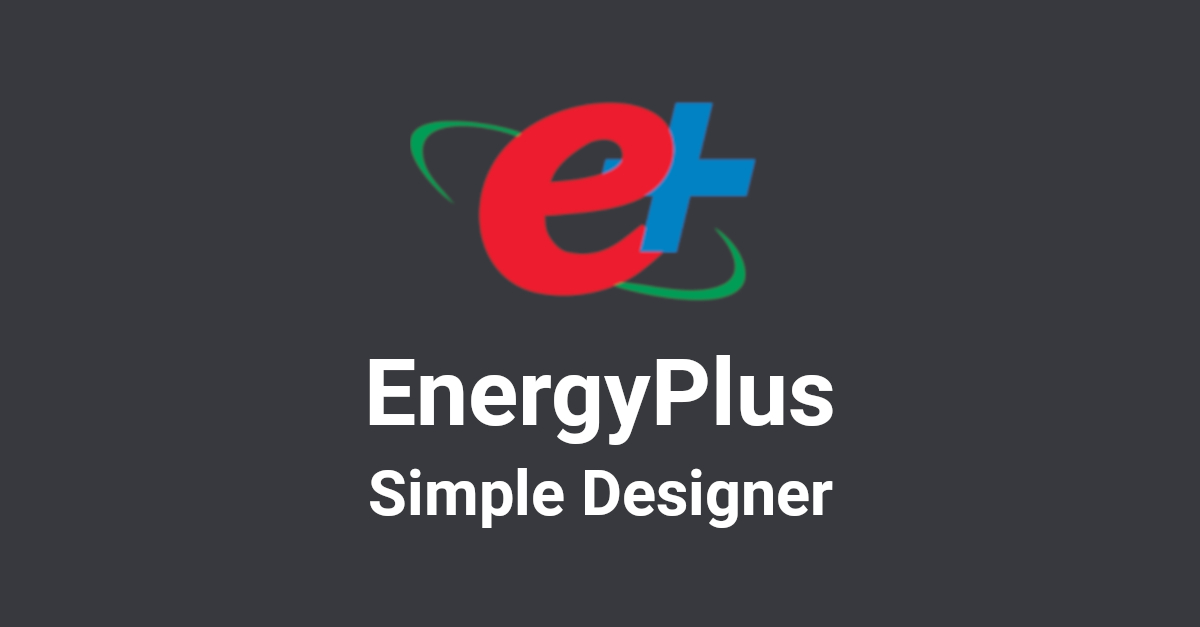
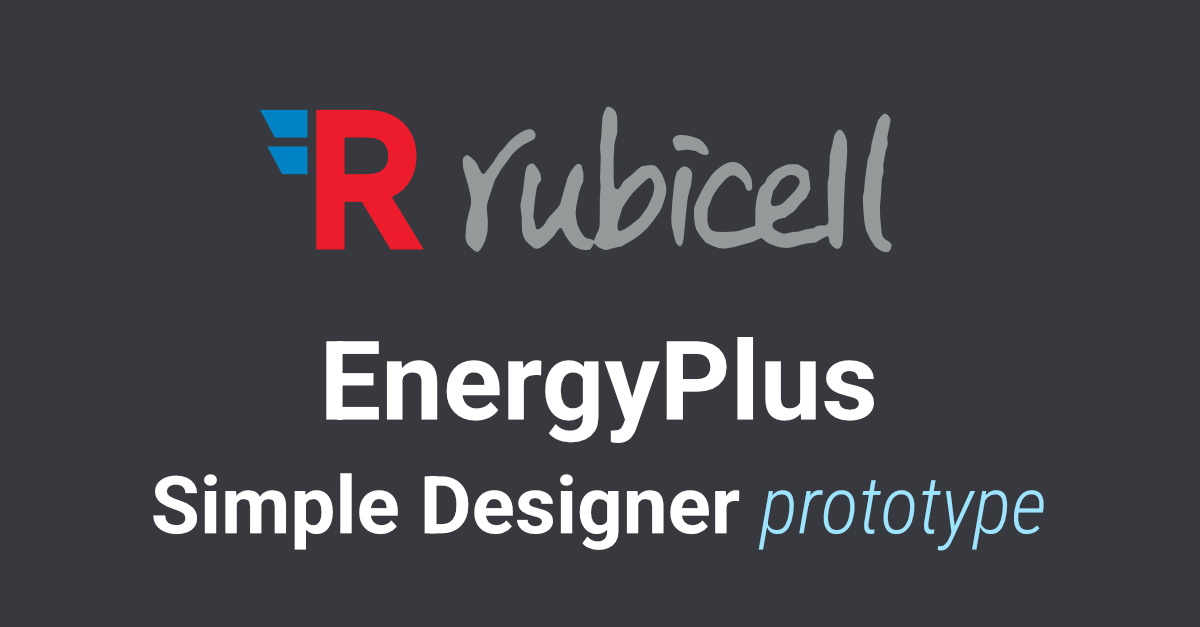
epdesign - updated aesthetics

Changed region(s): [[0.2158, 0.1515, 0.74, 0.4848], [0.1233, 0.7273, 0.8942, 0.8788], [0.2467, 0.5455, 0.74, 0.7273]]

diff --git a/epdesign/index.html b/epdesign/index.html
@@ -5,21 +5,21 @@
     <meta charset="utf-8" />
     <meta name="viewport" content="width=device-width, initial-scale=1">
 
-    <meta name='title' property='og:title' content='EP Simple Designer'/>
-    <meta name='author' content='Chul-Hong Park'>
-    <meta name='description' property='og:description' content='EnergyPlus Simple Designer developed by Chul-Hong Park'/>
-    <meta property='og:url' content='https://chp-rubicell.github.io/epdesign'/>
-    <meta name='image' property='og:image' content='https://chp-rubicell.github.io/epdesign/resources/img/thumbnail.jpg'/>
-    <meta name='twitter:image' content='https://chp-rubicell.github.io/epdesign/resources/img/thumbnail.jpg' />
-    <meta property='og:image:width' content='1200' />
-    <meta property='og:image:height' content='627' />
-    <meta property='og:type' content='website' />
+    <meta name="title" property="og:title" content="Rubicell EP Simple Designer"/>
+    <meta name="author" content="Chul-Hong Park">
+    <meta name="description" property="og:description" content="EnergyPlus Simple Designer developed by Chul-Hong Park"/>
+    <meta property="og:url" content="https://chp-rubicell.github.io/epdesign"/>
+    <meta name="image" property="og:image" content="https://chp-rubicell.github.io/epdesign/resources/imgs/thumbnail.jpg"/>
+    <meta name="twitter:image" content="https://chp-rubicell.github.io/epdesign/resources/imgs/thumbnail.jpg" />
+    <meta property="og:image:width" content="1200" />
+    <meta property="og:image:height" content="627" />
+    <meta property="og:type" content="website" />
 
-    <link rel="icon" href="resources/img/favicon.png">
+    <link rel="icon" href="resources/imgs/favicon.png?v=25_0617">
 
-    <title>EP Simple Designer</title>
+    <title>Rubicell EP Simple Designer</title>
 
-    <link rel="stylesheet" type="text/css" href="resources/styles.css?v=24_0830" />
+    <link rel="stylesheet" type="text/css" href="resources/styles.css?v=25_0617" />
 
     <link rel="preconnect" href="https://fonts.googleapis.com">
     <link rel="preconnect" href="https://fonts.gstatic.com" crossorigin>
@@ -43,10 +43,17 @@
 
     <!--* Header *-->
     <div class="panel" id="header">
-        <h1>
-            <img height="40px" src="resources/img/eplogo.png" style="vertical-align: middle;"/>
-            EnergyPlus Simple Designer <span style="font-weight: normal; font-style: italic; color: rgba(158,227,255,0.8);">prototype</span>
-        </h1>
+        <h2>
+            <!-- <img height="32px" src="resources/imgs/eplogo.png" style="vertical-align: middle;" draggable="false" /> -->
+            <span id="logo">
+                <object data="resources/imgs/logo.svg" height="30px" style="vertical-align: top;" draggable="false"></object>
+            </span>
+            <span id="logoSigniture">
+                <svg height="28px" viewBox="0 0 263 90" version="1.1" xmlns="http://www.w3.org/2000/svg" xmlns:xlink="http://www.w3.org/1999/xlink" xml:space="preserve" xmlns:serif="http://www.serif.com/" fill="currentColor"><path id="Rubicell-3" serif:id="Rubicell 3" d="M166.27,85.809c-4.744,1.034 -7.329,1.277 -9.214,0.821c-2.098,-0.517 -7.48,-2.767 -8.332,-3.497c-1.459,-1.217 -5.23,-6.386 -5.868,-8.089c-1.277,-3.345 -1.886,-12.041 -0.973,-14.17c0.273,-0.608 0.729,-1.855 1.064,-2.736c0.304,-0.882 0.851,-2.038 1.247,-2.585c0.395,-0.547 1.277,-2.341 2.006,-4.014c0.73,-1.703 1.764,-3.527 2.311,-4.105c0.548,-0.578 1.521,-2.037 2.129,-3.254c1.672,-3.192 6.386,-7.51 10.217,-9.335c5.565,-2.645 10.643,-0.334 14.565,6.66c1.156,2.037 1.399,2.767 1.642,5.017c0.396,3.284 0.183,4.166 -1.064,4.683c-1.764,0.76 -2.493,0.06 -3.314,-3.132c-0.244,-1.065 -0.761,-1.794 -2.19,-3.163c-2.858,-2.767 -4.804,-3.466 -7.054,-2.524c-1.369,0.578 -5.535,4.744 -6.903,6.903c-0.608,0.943 -1.703,2.524 -2.432,3.558c-0.943,1.277 -1.521,2.463 -1.886,3.861c-0.273,1.095 -0.912,2.737 -1.399,3.589c-0.821,1.49 -0.912,1.854 -1.064,5.807c-0.121,3.649 -0.061,4.501 0.456,6.295c1.065,3.527 2.494,4.196 9.275,4.287c5.017,0.092 10.369,-0.638 12.376,-1.672c0.79,-0.426 2.432,-0.943 3.649,-1.125c1.216,-0.213 2.554,-0.578 2.949,-0.821c0.699,-0.456 0.699,-0.517 0.517,-4.014c-0.122,-2.037 -0.061,-4.744 0.122,-6.416c0.182,-1.581 0.456,-4.044 0.577,-5.473c0.152,-1.43 0.548,-3.345 0.943,-4.258c0.365,-0.912 0.791,-2.098 0.943,-2.645c0.182,-0.578 0.973,-1.551 2.067,-2.493c1.43,-1.247 1.855,-1.825 2.129,-2.95c0.274,-1.034 0.73,-1.703 1.764,-2.645c0.76,-0.7 1.976,-1.855 2.676,-2.555c0.942,-0.973 2.219,-1.703 4.895,-2.888c3.588,-1.551 3.649,-1.551 6.872,-1.582c2.889,-0.03 3.315,0.031 4.105,0.639c0.456,0.365 1.855,1.216 3.041,1.916c1.49,0.821 2.25,1.459 2.342,1.915c0.516,2.281 1.429,9.913 1.277,10.582c-0.092,0.456 -0.7,1.977 -1.399,3.436c-1.004,2.098 -1.49,2.767 -2.585,3.528c-1.277,0.881 -2.037,1.733 -4.895,5.564c-0.7,0.912 -1.703,1.764 -2.646,2.25c-0.851,0.426 -2.068,1.308 -2.706,1.946c-1.034,1.065 -1.338,1.186 -2.646,1.186c-1.581,0 -4.348,1.217 -5.716,2.494c-0.73,0.699 -0.943,2.28 -0.426,3.253c0.608,1.095 3.527,3.041 5.382,3.528c1.794,0.517 1.855,0.517 4.713,-0.244c1.916,-0.547 3.254,-0.729 4.105,-0.608c0.852,0.092 1.551,0 2.22,-0.334c1.186,-0.639 5.838,-1.673 7.359,-1.703c0.76,-0 1.459,-0.274 2.25,-0.912c1.095,-0.852 1.277,-0.912 3.983,-0.912c2.707,-0 2.828,-0.031 3.467,-0.821c0.638,-0.821 0.669,-1.034 0.486,-4.957c-0.121,-2.25 -0.273,-7.906 -0.364,-12.558c-0.152,-7.906 -0.122,-8.606 0.456,-10.491c0.547,-1.733 0.608,-2.798 0.577,-7.207c-0.03,-2.949 0.122,-6.02 0.335,-7.145c0.608,-3.315 1.277,-6.173 1.733,-7.39c0.243,-0.608 0.426,-1.581 0.426,-2.128c-0,-1.46 0.912,-3.74 2.007,-4.926c1.763,-1.946 3.314,-1.216 4.987,2.311c1.246,2.645 1.611,5.352 1.429,10.43c-0.213,5.625 -0.76,12.193 -1.125,13.562c-0.152,0.577 -0.304,2.919 -0.304,5.169c-0,2.25 -0.152,4.591 -0.304,5.169c-0.152,0.608 -0.365,6.477 -0.426,13.076c-0.183,14.23 -0.456,18.579 -1.216,20.069c-0.913,1.763 -1.399,2.128 -2.707,2.128c-1.094,0 -1.429,-0.213 -3.01,-1.763c-1.338,-1.369 -1.764,-2.007 -1.764,-2.676c0,-1.156 -0.547,-3.102 -0.942,-3.345c-0.152,-0.091 -0.609,0.03 -0.973,0.273c-0.365,0.244 -1.217,0.609 -1.886,0.821c-0.669,0.213 -1.733,0.852 -2.372,1.43c-1.52,1.338 -2.28,1.611 -4.713,1.611c-1.125,0 -2.797,0.213 -3.709,0.456c-0.913,0.274 -2.555,0.669 -3.649,0.882c-1.095,0.213 -2.768,0.7 -3.71,1.064c-2.767,1.034 -6.781,0.913 -10.521,-0.304c-4.47,-1.429 -5.778,-2.098 -7.298,-3.679c-0.76,-0.821 -1.642,-1.46 -1.916,-1.46c-0.273,0 -1.642,0.609 -3.041,1.338c-1.702,0.913 -3.253,1.49 -4.682,1.734c-1.156,0.182 -2.646,0.608 -3.254,0.912c-0.608,0.304 -3.071,1.003 -5.473,1.551Zm22.775,-25.543c0.639,0.73 2.554,0.73 4.713,-0.03c1.429,-0.487 2.22,-1.125 6.051,-4.987c6.143,-6.173 7.541,-9.092 5.535,-11.494c-1.703,-2.007 -4.562,-2.615 -7.055,-1.46c-2.068,0.912 -4.5,3.132 -4.926,4.47c-0.183,0.608 -1.004,1.825 -1.794,2.676c-0.791,0.821 -1.521,1.794 -1.612,2.129c-1.52,5.047 -1.824,7.693 -0.912,8.696Zm-55.464,24.813c-0.699,0.517 -0.821,0.486 -1.855,-0.395c-1.216,-1.034 -1.733,-2.251 -2.341,-5.474c-0.274,-1.49 -0.791,-3.679 -1.155,-4.865c-0.852,-2.798 -0.852,-8.453 0.03,-16.268c0.334,-3.102 0.73,-6.933 0.851,-8.514c0.213,-3.376 1.125,-8.15 1.764,-9.396c0.274,-0.487 1.155,-1.49 2.037,-2.281c1.277,-1.155 1.764,-1.399 2.737,-1.399c1.642,0 3.436,1.217 4.257,2.95c0.608,1.247 0.639,1.52 0.304,4.135c-0.182,1.551 -0.395,3.558 -0.486,4.501c-0.092,0.912 -0.517,2.371 -0.913,3.223c-0.395,0.851 -0.79,2.372 -0.912,3.345c-0.121,0.973 -0.395,2.919 -0.608,4.348c-0.213,1.429 -0.578,4.713 -0.76,7.298c-1.064,14.474 -1.581,17.758 -2.95,18.792Zm16.572,-55.95c-0.79,0.79 -4.5,0.152 -5.716,-0.973c-0.912,-0.852 -2.129,-1.247 -5.23,-1.703c-1.946,-0.274 -2.798,-0.274 -5.018,0.152c-2.523,0.486 -2.645,0.486 -3.405,-0.091c-0.426,-0.305 -0.943,-1.034 -1.125,-1.612c-1.49,-4.5 -1.429,-4.105 -0.821,-5.352c0.76,-1.611 2.25,-2.28 5.047,-2.311c1.217,0 2.95,0.183 3.862,0.395c2.95,0.7 6.507,1.855 7.268,2.342c3.649,2.372 6.628,7.663 5.138,9.153Zm110.502,59.629c-1.763,0.943 -5.808,-0.608 -8.331,-3.223c-1.49,-1.581 -4.774,-7.45 -5.565,-10.004c-0.821,-2.646 -1.368,-7.085 -1.733,-13.957c-0.335,-6.234 -0.304,-6.812 0.182,-8.362c0.365,-1.095 0.547,-2.463 0.517,-4.045c0,-1.307 0.183,-3.375 0.426,-4.561c0.243,-1.216 0.456,-2.737 0.456,-3.405c-0,-0.669 0.274,-2.798 0.608,-4.714c0.335,-1.915 0.608,-3.861 0.608,-4.287c0,-0.426 0.426,-1.551 0.912,-2.494c0.7,-1.307 0.913,-2.128 0.913,-3.344c-0,-0.882 0.182,-2.311 0.425,-3.132c0.244,-0.821 0.517,-2.099 0.639,-2.859c0.091,-0.76 0.669,-2.828 1.247,-4.622c0.577,-1.794 1.186,-4.044 1.368,-5.017c0.426,-2.189 0.791,-2.889 2.676,-4.865c0.973,-1.065 1.733,-1.612 2.22,-1.612c1.155,0 2.493,1.034 3.132,2.402c0.638,1.429 0.638,1.338 -0.943,8.758c-0.76,3.497 -0.821,4.196 -0.517,5.321c0.304,1.064 0.274,1.703 -0.122,3.436c-0.243,1.186 -0.669,2.554 -0.942,3.041c-0.243,0.517 -0.487,1.764 -0.548,2.797c-0.06,1.034 -0.304,2.555 -0.577,3.345c-0.396,1.156 -0.487,2.068 -0.304,4.227c0.152,2.372 0.091,3.041 -0.426,4.561c-0.426,1.186 -0.639,2.524 -0.639,4.105c0,1.247 -0.182,4.409 -0.425,6.994c-0.73,7.876 -0.821,10.643 -0.487,13.805c0.183,1.673 0.456,4.744 0.578,6.842c0.304,5.169 1.125,6.842 3.831,8.058c1.703,0.73 2.585,1.885 2.585,3.254c-0.03,1.064 -1.095,3.192 -1.764,3.557Zm-250.043,-1.094c-1.49,1.824 -2.371,1.611 -5.382,-1.156c-2.919,-2.706 -3.497,-4.044 -3.527,-7.906c-0.031,-4.075 0.942,-10.491 2.128,-13.957c1.369,-3.892 1.612,-6.903 0.913,-10.521c-0.761,-3.801 -2.251,-9.548 -3.132,-11.981c-1.186,-3.314 -1.582,-5.26 -1.612,-8.058c-0,-2.463 0.03,-2.554 1.034,-3.558c0.578,-0.577 1.307,-1.033 1.642,-1.033c0.73,-0 3.101,1.824 4.683,3.588c1.186,1.307 2.219,3.132 3.132,5.625c0.669,1.764 1.733,2.706 2.676,2.372c0.334,-0.122 1.064,-1.004 1.581,-1.916c0.486,-0.912 1.551,-2.311 2.341,-3.071c0.882,-0.851 1.885,-2.311 2.585,-3.71c1.003,-2.098 4.044,-6.02 5.139,-6.629c0.243,-0.121 0.973,-1.034 1.642,-2.007c0.638,-1.003 2.432,-2.919 3.953,-4.317c3.253,-2.98 8.301,-5.748 10.521,-5.748c2.737,0 4.591,3.011 3.314,5.443c-0.334,0.669 -1.125,1.186 -3.375,2.159c-5.078,2.22 -10.187,6.599 -12.923,11.099c-0.913,1.46 -2.433,3.558 -3.376,4.592c-1.094,1.216 -1.854,2.372 -2.067,3.162c-0.183,0.7 -0.821,1.764 -1.399,2.402c-1.064,1.217 -1.612,2.524 -3.162,7.633c-0.487,1.581 -1.217,3.77 -1.642,4.865c-1.338,3.497 -1.825,6.416 -1.46,8.423c0.547,2.797 0.76,9.73 0.395,12.254c-0.669,4.774 -2.402,9.275 -4.622,11.951Zm67.506,-0.396c-0.274,0.152 -1.369,0.365 -2.433,0.456c-2.098,0.183 -4.561,-0.486 -7.237,-1.976c-1.825,-1.064 -5.96,-6.72 -6.842,-9.366c-0.699,-2.189 -1.186,-2.554 -2.463,-1.885c-0.365,0.213 -1.003,0.943 -1.368,1.642c-1.095,1.916 -2.524,3.71 -3.984,4.926c-0.729,0.608 -1.642,1.52 -2.007,2.068c-0.395,0.517 -1.307,1.277 -2.007,1.703c-0.699,0.425 -1.763,1.094 -2.341,1.459c-1.155,0.73 -2.706,0.852 -3.74,0.304c-0.365,-0.182 -1.794,-1.368 -3.162,-2.615c-2.311,-2.128 -2.524,-2.432 -3.406,-4.835c-0.912,-2.523 -0.943,-2.736 -0.943,-7.875c0,-3.68 -0.121,-5.778 -0.456,-7.024c-0.669,-2.615 -0.578,-5.352 0.304,-8.332c0.487,-1.581 0.912,-3.923 1.095,-6.203c0.638,-8.15 1.368,-12.072 2.554,-13.745c0.547,-0.79 2.342,-1.429 3.375,-1.186c0.426,0.122 1.065,0.73 1.521,1.49c0.456,0.7 1.125,1.612 1.52,2.038c0.943,1.003 1.946,3.983 1.946,5.716c0,1.156 -0.152,1.49 -1.094,2.403c-0.973,0.912 -1.217,1.429 -1.825,4.074c-0.395,1.673 -0.851,4.896 -1.034,7.207c-0.152,2.28 -0.456,5.443 -0.669,6.994c-0.365,2.706 -0.334,2.919 0.335,4.895c0.395,1.125 0.76,2.707 0.79,3.467c0.122,1.733 0.304,2.037 1.156,2.037c1.672,-0.03 4.531,-2.797 5.595,-5.412c0.243,-0.609 1.095,-1.734 1.855,-2.524c2.706,-2.615 5.99,-6.386 6.416,-7.359c0.517,-1.155 1.459,-4.622 2.889,-10.43c1.277,-5.139 1.794,-6.598 3.496,-9.487c1.794,-3.102 3.589,-4.926 4.835,-4.926c1.247,-0 2.19,0.943 2.19,2.22c0.03,0.517 0.212,1.307 0.456,1.733c0.304,0.517 0.425,1.733 0.456,3.831c-0,2.889 -0.061,3.224 -0.943,4.866c-1.429,2.706 -2.341,6.324 -3.497,13.744c-0.456,2.98 -0.486,3.862 -0.182,6.325c0.456,3.557 1.247,6.02 2.889,8.757c1.824,3.041 2.858,4.014 4.682,4.257c1.703,0.243 3.132,0.76 3.132,1.125c0,0.152 0.122,0.274 0.244,0.274c0.152,-0 0.425,-0.73 0.638,-1.581c0.243,-0.882 0.669,-1.977 1.004,-2.433c0.304,-0.456 0.882,-1.672 1.277,-2.737c0.699,-1.794 0.73,-2.371 0.73,-7.845c-0,-12.102 0.06,-14.2 0.364,-16.268c0.244,-1.49 0.213,-2.797 0,-4.409c-0.243,-1.642 -0.243,-4.318 0.031,-9.7c0.274,-5.869 0.274,-7.906 -0.031,-9.639c-0.212,-1.247 -0.304,-2.737 -0.182,-3.376c0.608,-3.618 0.821,-5.96 1.095,-11.676c0.273,-6.021 0.334,-6.447 1.246,-8.849c0.517,-1.399 1.156,-2.767 1.43,-3.041c0.729,-0.881 2.28,-0.669 3.77,0.456c2.737,2.099 3.011,3.132 3.041,10.765c0.03,3.892 -0.061,5.047 -0.487,6.021c-1.216,2.858 -1.733,6.963 -1.854,14.899c-0.031,4.197 -0,9.609 0.121,12.072c0.213,4.926 0.517,5.717 2.19,5.717c0.699,-0 1.064,-0.304 1.915,-1.581c0.578,-0.882 1.186,-1.977 1.369,-2.433c0.182,-0.456 0.912,-1.247 1.611,-1.733c2.037,-1.399 4.653,-3.649 6.872,-5.869c1.125,-1.125 2.403,-2.189 2.859,-2.341c0.425,-0.183 2.219,-0.456 3.953,-0.669c3.983,-0.426 4.774,-0.152 6.659,2.341c2.098,2.798 2.402,3.345 3.527,6.599c1.521,4.378 1.612,6.172 0.456,10.855c-1.094,4.44 -2.523,7.724 -4.561,10.4c-0.821,1.064 -2.068,2.797 -2.797,3.892c-1.946,2.919 -5.839,6.963 -8.18,8.514c-1.125,0.76 -2.524,1.764 -3.071,2.22c-0.578,0.486 -1.733,1.186 -2.585,1.581c-0.851,0.365 -2.22,1.155 -3.071,1.764c-1.916,1.398 -2.706,1.672 -5.565,2.067c-1.277,0.183 -3.162,0.669 -4.196,1.065c-1.855,0.76 -1.916,0.76 -3.618,0.243c-2.129,-0.608 -4.318,-1.946 -5.17,-3.163l-0.638,-0.881l-0.882,1.824c-0.456,1.004 -1.095,1.977 -1.368,2.098Zm17.119,-11.616c0.517,0.609 1.764,0.426 3.558,-0.577c2.037,-1.156 5.047,-3.315 7.054,-5.048c0.791,-0.699 1.642,-1.368 1.886,-1.52c0.243,-0.122 0.881,-0.913 1.459,-1.764c0.548,-0.821 1.612,-2.25 2.342,-3.132c0.76,-0.912 1.52,-2.068 1.702,-2.585c0.213,-0.547 1.004,-2.28 1.795,-3.861c1.003,-2.007 1.581,-3.649 1.885,-5.322c0.608,-3.375 0.547,-3.983 -0.548,-6.233c-1.337,-2.707 -1.946,-2.767 -4.53,-0.487c-1.065,0.912 -2.311,2.098 -2.828,2.585c-0.487,0.517 -1.46,1.49 -2.129,2.189c-0.669,0.669 -1.824,1.825 -2.584,2.554c-0.761,0.73 -1.855,2.099 -2.433,3.072c-0.578,1.003 -1.703,2.645 -2.524,3.709c-1.703,2.311 -2.28,3.558 -2.676,5.96c-0.152,0.973 -0.547,2.281 -0.851,2.889c-1.216,2.341 -1.49,6.386 -0.578,7.571Z"/></svg>
+            </span>
+            <span class="sm-title">EP Simple Designer <span class="prototypeTag">prototype</span></span>
+            <span class="lg-title">EnergyPlus Simple Designer <span class="prototypeTag">prototype</span></span>
+        </h2>
     </div>
     <div class="panel" style="width: min(100%, 500px);">
         <br>
@@ -94,16 +101,18 @@
                     </div>
                     <div id="toolgroupWallProp" class="toolbar toolgroup">
                         <div class="borderleft" style="height: 30px"></div>
-                        <span></span>
-                        <span>
-                            <strong>Name: </strong>
-                        </span>
-                        <input data-property="wallName" type="text" value="wall name" style="width:120px;" disabled />
-                        <span>
+                        <span id="tempHidden" style="display: none;">
                             <span></span>
-                            <strong>Construction: </strong>
+                            <span>
+                                <strong>Name: </strong>
+                            </span>
+                            <input data-property="wallName" type="text" value="wall name" style="width:120px;" disabled />
+                            <span>
+                                <span></span>
+                                <strong>Construction: </strong>
+                            </span>
+                            <input data-property="construction" type="text" value="Default Exterior Wall" style="width:200px;" disabled />
                         </span>
-                        <input data-property="construction" type="text" value="Default Exterior Wall" style="width:200px;" disabled />
                         <span>
                             <span></span>
                             <strong>WWR: </strong>
@@ -122,12 +131,12 @@
     </div>
     
     <!--* Footer *-->
-    <div class="panel" id="footer" style="padding-top: 15px;">
+    <div class="panel" style="padding-top: 15px;">
         <div class="separator"></div>
         <h4><small>DEVELOPED BY</small><b>&nbsp;&nbsp;Chul-Hong Park</b></h4>
         <p><small>
             <a href="https://chp-rubicell.github.io/" target="_blank" rel="noopener noreferrer">chp-rubicell.github.io</a><b>&nbsp;&nbsp;|&nbsp;&nbsp;</b><a href="mailto:chulhong.park@snu.ac.kr">chulhong.park@snu.ac.kr</a><br>
-            UPDATED ON<b>&nbsp;&nbsp;<a style="text-decoration: none;" href="resources/updatelog.html">2024-08-30</a></b>
+            UPDATED ON<b>&nbsp;&nbsp;<span style="display: inherit; vertical-align: inherit; color: #f0f5f790;">2024-08-30</span></b>
         </small></p>
     </div>
 

diff --git a/epdesign/resources/styles.css b/epdesign/resources/styles.css
@@ -7,7 +7,7 @@
     --separatorColor: rgba(0,0,0,0.5);
 }
 :root[colorTheme='dark'] {
-    --bg: #292A2F url('./img/bg.jpg');
+    --bg: #292A2F url('./imgs/bg.jpg');
     --textColor: #fff;
     --separatorColor: rgba(240,245,247,0.5);
     /* button 1 */
@@ -28,6 +28,21 @@
     --btn2ActiveColor: rgba(255,255,255);
     --btn2ActiveBG: rgba(158,227,255,0.8);
     --btn2ActiveShadow: rgba(158,227,255,0.3);
+}
+
+.lg-title {
+    display: inline-block;
+}
+.sm-title {
+    display: none;
+}
+@media screen and (max-width: 700px) {
+    .lg-title {
+        display: none;
+    }
+    .sm-title {
+        display: inline-block;
+    }
 }
 
 * {
@@ -61,7 +76,7 @@ html {
 body {
     width: 100%;
     height: 100%;
-    padding: 30px calc((100% - 800px) * 0.1 + 30px);
+    padding: 0px calc((100% - 800px) * 0.1 + 30px);
     display: flex;
     flex-direction: column;
     align-items: safe center; /* horizontal */
@@ -78,7 +93,35 @@ h1 {
     margin-block-end: 0.0em;
 }
 h2 {
-    margin-block-start: 0.6em;
+    font-size: 1.8em;
+    margin-block-end: 0.0em;
+    white-space: nowrap;
+}
+h2 > span {
+    display: inline-block;
+    vertical-align: middle;
+}
+#logo {
+    /* display: none; */
+    height: 35px;
+    /* color: #f0f5f770; */
+    color: rgba(158,227,255,0.8);
+    /* margin-right: 5px; */
+}
+#logoSigniture {
+    height: 35px;
+    color: #f0f5f7a0;
+    /* color: rgba(158,227,255,0.8); */
+    /* margin: 0 8px; */
+    /* margin-right: 10px; */
+    margin-left: 3px;
+    margin-right: 8px;
+}
+.prototypeTag {
+    font-family: 'Roboto Condensed', sans-serif;
+    font-weight: normal;
+    font-style: italic;
+    color: rgba(158,227,255,0.8);
 }
 h3 {
     margin-block-start: 0.6em;
@@ -567,7 +610,7 @@ input[type=number] {
     border: 0px;
     padding: 0 30px 0 10px;
     font-size: 16px;
-    font-family: 'Roboto';
+    font-family: 'Roboto', sans-serif;
     background-color: rgba(0,0,0,0.9);
     /* background-color: rgba(158,227,255,0.8); */
     /* color: rgba(51,68,79); */
